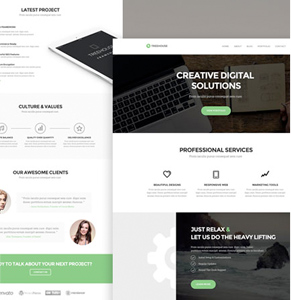
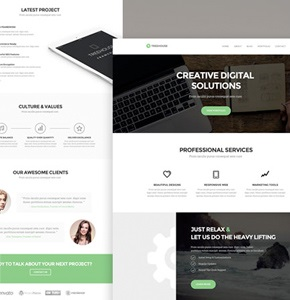
fixed

diff --git a/index.html b/index.html
@@ -16,13 +16,14 @@
 			<nav class="main-nav">
 				<p class="main-nav__logo">Golden</p>
 				<ul class="main-nav__list site-list">
-					<li class="site-list__item"> <a href="">Home</a> </li>
-					<li class="site-list__item"> <a href=""></a><a href="#">Sevices</a></li>
-					<li class="site-list__item"> <a href="#">Portfolio</a></li>
-					<li class="site-list__item"> <a href="#">About</a></li>
-					<li class="site-list__item"> <a href="#">Contact</a></li>
+					<li class="site-list__item"> <a href="#home">Home</a> </li>
+					<li class="site-list__item"> <a href="#services">Sevices</a></li>
+					<li class="site-list__item"> <a href="#portfolio">Portfolio</a></li>
+					<li class="site-list__item"> <a href="#about">About</a></li>
+					<li class="site-list__item"> <a href="#contact">Contact</a></li>
 				</ul>
 			</nav>
+			<a name="home"></a>	
 			<h1 class="visually-hidden">Web studio Golden</h1>
 			<p class="page-header__welcome">Welcome to our studio</p>
 			<p class="page-header__meet">It's nice to meet you</p>
@@ -31,6 +32,7 @@
 	</header>
 	<main class="page-main">
 		<section class="services">
+			<a name="services"></a>	
 			<h2 class="services__heading">Services</h2>
 			<p class="services__info">Proin iaculis purus consequat sem cure.</p>
 			<div class="services__wrapper">
@@ -59,45 +61,53 @@
 		</section>
 		<div class="portfolio-wrapper">
 		<section class="portfolio">
+			<a name="portfolio"></a>	
 			<h2 class="portfolio__heading">Our portfolio</h2>
 			<p class="portfolio__info">Proin iaculis purus consequat sem cure. </p>
 			<div class="portfolio-work-wrapper">
-			<article class="portfolio__items portfolio-work">
+			<a class="portfolio__items portfolio-work" href="#"><article >
 				<img class="portfolio-work__image" src="img/Image.jpg">
 				<h4 class="portfolio-work__heading">Ebony & Ivory</h4>
 				<p class="portfolio-work__info">Branding</p>
-			</article>
-			<article class="portfolio__items portfolio-work">
+				
+			</article></a>
+			<a class="portfolio__items portfolio-work" href="#"><article >
 				<img class="portfolio-work__image" src="img/Image-1.jpg">
 				<h4 class="portfolio-work__heading">Smart Stationary</h4>
 				<p class="portfolio-work__info">Print Design</p>
-			</article>
-			<article class="portfolio__items portfolio-work">
+				
+			</article></a>
+			<a  class="portfolio__items portfolio-work" href="#"><article>
 				<img class="portfolio-work__image" src="img/Image-2.jpg">
 				<h4 class="portfolio-work__heading">Clever Poster</h4>
 				<p class="portfolio-work__info">Print Design</p>
-			</article>
-			<article class="portfolio__items portfolio-work">
+				
+			</article></a>
+			<a class="portfolio__items portfolio-work" href="#"><article >
 				<img class="portfolio-work__image" src="img/Image-3.jpg">
 				<h4 class="portfolio-work__heading">Vinyl Record</h4>
 				<p class="portfolio-work__info">Product Mock-up</p>
-			</article>
-			<article class="portfolio__items portfolio-work">
+				
+			</article></a>
+			<a  class="portfolio__items portfolio-work" href="#"><article>
 				<img class="portfolio-work__image" src="img/Image-4.jpg">
 				<h4 class="portfolio-work__heading">Treehouse Template</h4>
 				<p class="portfolio-work__info">Web Design</p>
-			</article>
-			<article class="portfolio__items portfolio-work">
+				
+			</article></a>
+			<a  class="portfolio__items portfolio-work" href="#"><article>
 				<img class="portfolio-work__image" src="img/Image-5.jpg">
 				<h4 class="portfolio-work__heading">Burned Logo</h4>
 				<p class="portfolio-work__info">Branding</p>
-			</article>
+				
+			</article></a>
 			</div>
 			
 		</section>
 		</div>
 
 		<section class="about">
+			<a name="about"></a>	
 			<h1 class="about__heading">About us</h1>
 			<p class="about__info">Proin iaculis purus consequat sem cure. </p>
 			<section class="about__item about__item--left about-achievement">
@@ -188,6 +198,7 @@
 		
 		<div class="contact-wrapper">
 			<section class="contact">
+				<a name="contact"></a>	
 			<h2 class="contact__heading">Contact Us</h2> 
 			<p class="contact__info">Proin iaculis purus consequat sem cure. </p>
 

diff --git a/styles/style.css b/styles/style.css
@@ -14,6 +14,10 @@
     font-style: normal;
 }
 
+body {
+	margin: 0;
+}
+
 .visually-hidden:not(:focus):not(:active) {
   position: absolute;
   width: 1px;
@@ -30,7 +34,7 @@
 .page-header {
 	
 	background-color: #000000;
-	background-image: url("../img/Background Image.jpg");
+	background-image: url("../img/Background Image 2.jpg");
 	background-repeat: no-repeat;
 	background-size: 100% 100%;
 }
@@ -73,7 +77,7 @@
 }
 
 .site-list__item {
-	padding-right: 7%;
+	padding-right: 5%;
 	
 }
 
@@ -122,7 +126,7 @@
 	background-color: #d0ae12;
 	padding: 2% 8%;
 	color: #ffffff;
-	border-radius: 5px;
+	cursor:pointer;
 	font-size: 18px;
 	
 
@@ -200,6 +204,9 @@
 	
 }
 
+.portfolio a {
+	text-decoration: none;
+}
 
 
 .portfolio__heading {
@@ -240,6 +247,7 @@ flex-wrap: wrap;
 	font-size: 18px;
 	font-family:  "Monserat bold", sans-serif;
 	margin-bottom: 1%;
+	color: #000000;
 	
 }
 
@@ -406,6 +414,9 @@ flex-wrap: wrap;
 
 .contact-wrapper {
 	background-color: #222222;
+	background-image: url(../img/123.jpg);
+	background-repeat: no-repeat;
+	background-size: 100% 100%;
 }
 
 .contact {
@@ -439,24 +450,25 @@ flex-wrap: wrap;
 }
 
 .form__name {
-	padding: 1% 4%;
-	margin: 1% 1%;
+	padding: 2% 5%;
+	margin: 1%;
 }
 
 .form__email {
-	padding: 1% 4%;
-	margin: 1% 1%;
+	padding: 2% 5%;
+	margin: 1%;
 }
 
 .form__subject {
-	padding: 1% 4%;
-	margin: 1% 1%;
+	padding: 2% 5%;
+	margin: 1%;
 }
 
 .form__message {
 	
-	padding: 1% 4%;
-	margin: 1% 1%;
+	padding: 2% 5%;
+	margin: 1%;
+	margin-bottom: 5%;
 }
 
 .button-send {
@@ -471,6 +483,7 @@ flex-wrap: wrap;
 	
 	 font-family: 'DroidSerif-Regular';
 	 display: flex;
+	 align-items: center;
 }
 
 .social__list {
@@ -478,6 +491,17 @@ flex-wrap: wrap;
 	display: flex;
 	justify-content: center;
 	margin: 0;
+}
+
+.page-footer__copyright {
+	width: 35%;
+	color: #555555;
+	font-family:  "Monserat bold", sans-serif;
+
+}
+
+.page-footer__social {
+	width: 35%;
 }
 
 .social__item {
@@ -525,7 +549,7 @@ flex-wrap: wrap;
 }
 
 .page-header__meet {
-	font-size: 50px;
+	font-size: 40px;
 	
 }
 .page-header__button {
@@ -540,6 +564,10 @@ flex-wrap: wrap;
 	display: block;
 }
 
+.services__heading {
+	font-size: 30px;
+}
+
 .services-item {
 	width: 100%;
 }
@@ -552,12 +580,18 @@ flex-wrap: wrap;
 	display: block;
 
 }
+.portfolio__heading {
+	font-size: 30px;
+}
 
 .portfolio-work {
 	width: 100%;
 	
 }
 
+.about__heading {
+	font-size: 30px;
+}
 
 .about__item {
 	margin-bottom: 3%;
@@ -580,7 +614,9 @@ flex-wrap: wrap;
 }
 
 
-
+.team__heading {
+	font-size: 30px;
+}
 
 .team__members {
 	display: block;
@@ -596,5 +632,9 @@ flex-wrap: wrap;
 	width: 80%;
 	border-radius: 50%;
 
+}
+
+.contact__heading {
+	font-size: 30px;
 }
 
